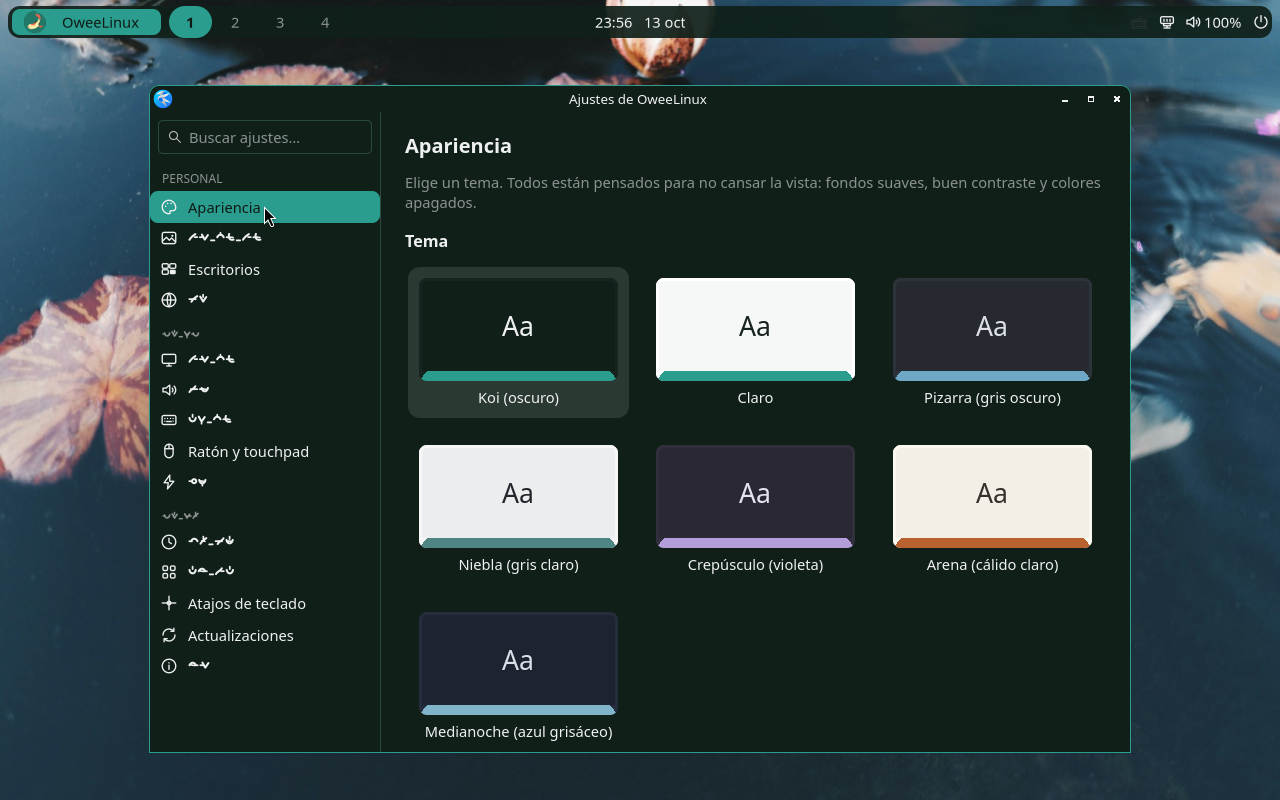
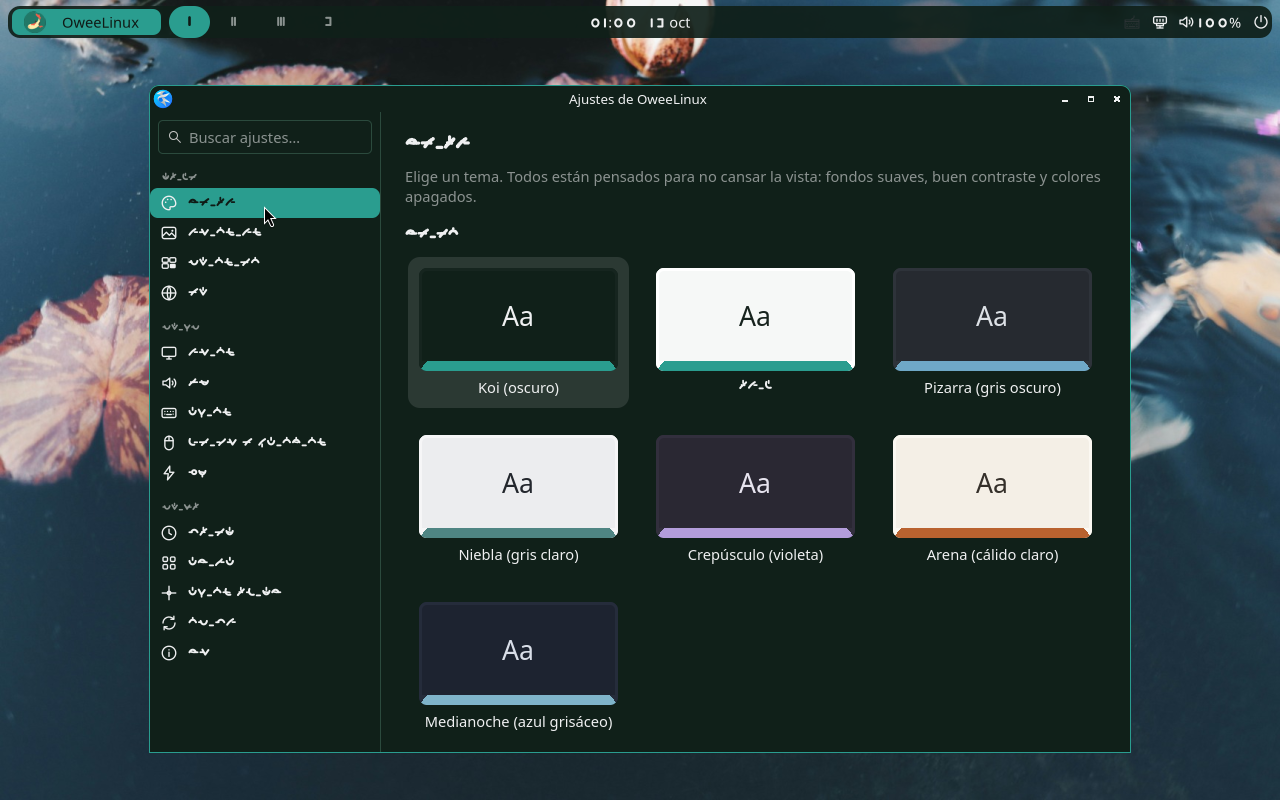
Imagen: instalar todos los módulos de las apps (faltaba calc_owee.py) y /etc vacío con el paquete de cifras; pruebas de cifras Owee y calculadora

diff --git a/tools/ostree-proto/lang-image-test.py b/tools/ostree-proto/lang-image-test.py
@@ -9,7 +9,7 @@ src = open(os.path.join(here, "interaction-test.py")).read()
 gspec = importlib.util.spec_from_file_location("gui", os.path.join(here, "gui-boot-test.py")); gui = importlib.util.module_from_spec(gspec); gspec.loader.exec_module(gui)
 disk, out = os.path.abspath(sys.argv[1]), os.path.abspath(sys.argv[2]); os.makedirs(out, exist_ok=True)
 srv = "/home/oweeme/.cache/oweelinux/vm/ssrv"; os.makedirs(srv, exist_ok=True)
-shutil.rmtree(srv + "/dk", ignore_errors=True); os.makedirs(srv + "/dk"); shutil.copytree(os.path.join(repo, "desktop/shell"), srv + "/dk/shell", ignore=shutil.ignore_patterns("__pycache__"))
+shutil.rmtree(srv + "/dk", ignore_errors=True); os.makedirs(srv + "/dk"); shutil.copytree(os.path.join(repo, "desktop/apps"), srv + "/dk/apps", ignore=shutil.ignore_patterns("__pycache__")); subprocess.run(["tar", "czf", srv + "/apps-over.tgz", "-C", srv + "/dk", "apps"], check=True); shutil.copytree(os.path.join(repo, "desktop/shell"), srv + "/dk/shell", ignore=shutil.ignore_patterns("__pycache__"))
 subprocess.run(["tar", "czf", srv + "/shell-over.tgz", "-C", srv + "/dk", "shell"], check=True)      # (código nuevo sobre la imagen, con mount --bind, hasta la próxima construcción)
 for f in os.listdir(os.path.join(repo, "desktop/widgets/sistema")): shutil.copy(os.path.join(repo, "desktop/widgets/sistema", f), srv)
 shutil.copy(os.path.join(here, "mock-wpctl"), srv)
@@ -106,9 +106,14 @@ A().run([])
     escribir("ja", 589, "japonés", False, "nihongo", lambda s: "日本" in s, "escribir «nihongo» con Mozc da 日本…")
     escribir("qow", 625, "Owee", False, "kuma", lambda s: len(s.strip()) == 2 and all(0xE000 <= ord(c) <= 0xF8FF for c in s.strip()), "escribir «kuma» con el teclado Owee da 2 glifos Owee Script")
     print("perfil fcitx5:", F("cat ~/.config/fcitx5/profile 2>&1 | tr '\\n' ' '; echo; cat ~/.config/labwc/environment | tr '\\n' ' '", "FP"))
-    # calculadora en Owee (el idioma elegido en Ajustes es ahora Owee romano): nombres bajo las teclas y lectura en voz alta
+    # Owee Script: cifras Owee del sistema (regla de fontconfig por usuario) y calculadora con nombres, glifos y lectura
     sh("pkill -f imtest.py", "KI2", 30)
-    F(ENV + "OWEE_CALC_DEBUG=/tmp/calc-last sh -c 'nohup /usr/libexec/owee/apps/calculadora/owee_calc.py > /tmp/calc.log 2>&1 &'", "CA"); time.sleep(7)
+    pick(661, "qow@owee", "Owee Script (cifras y calculadora)")
+    nr = sh("ls /var/home/oweeuser/.config/fontconfig/conf.d/ 2>&1; ls /usr/share/owee/fontconfig/ /usr/share/fonts/truetype/owee-numerals/ 2>&1; ls /usr/share/locale/qow/LC_MESSAGES | wc -l; ls /etc/fonts/conf.d | grep -c owee-numerals", "NR", 30) or ""; print("numerals:", nr)
+    check("Owee Script activa la regla de cifras Owee del usuario", "60-owee-numerals.conf" in nr.split("owee-numerals")[0] or "60-owee-numerals.conf" in nr, nr)
+    vm.screenshot(os.path.join(out, "li-numerales-panel.png"))
+    sh("mkdir -p /tmp/ap; cp -r /tmp/shell-apps /tmp/ap/ 2>/dev/null; curl -s http://10.0.2.2:8006/apps-over.tgz | tar xz -C /tmp/ap; chmod -R a+rX /tmp/ap", "AP", 60)
+    F(ENV + "OWEE_CALC_DEBUG=/tmp/calc-last sh -c 'nohup python3 /tmp/ap/apps/calculadora/owee_calc.py > /tmp/calc.log 2>&1 &'", "CA"); time.sleep(8)
     for ch in ["1", "2", "shift-equal", "7", "shift-8", "3"]: key(ch)
     time.sleep(1); vm.screenshot(os.path.join(out, "li-calc-owee1.png")); key("ret"); time.sleep(1.5); vm.screenshot(os.path.join(out, "li-calc-owee2.png"))
     cr = sh("cat /tmp/calc-last", "CR", 30) or ""; check("calculadora en Owee: 12+7×3 = 33", cr.strip("|") == "33", cr)
